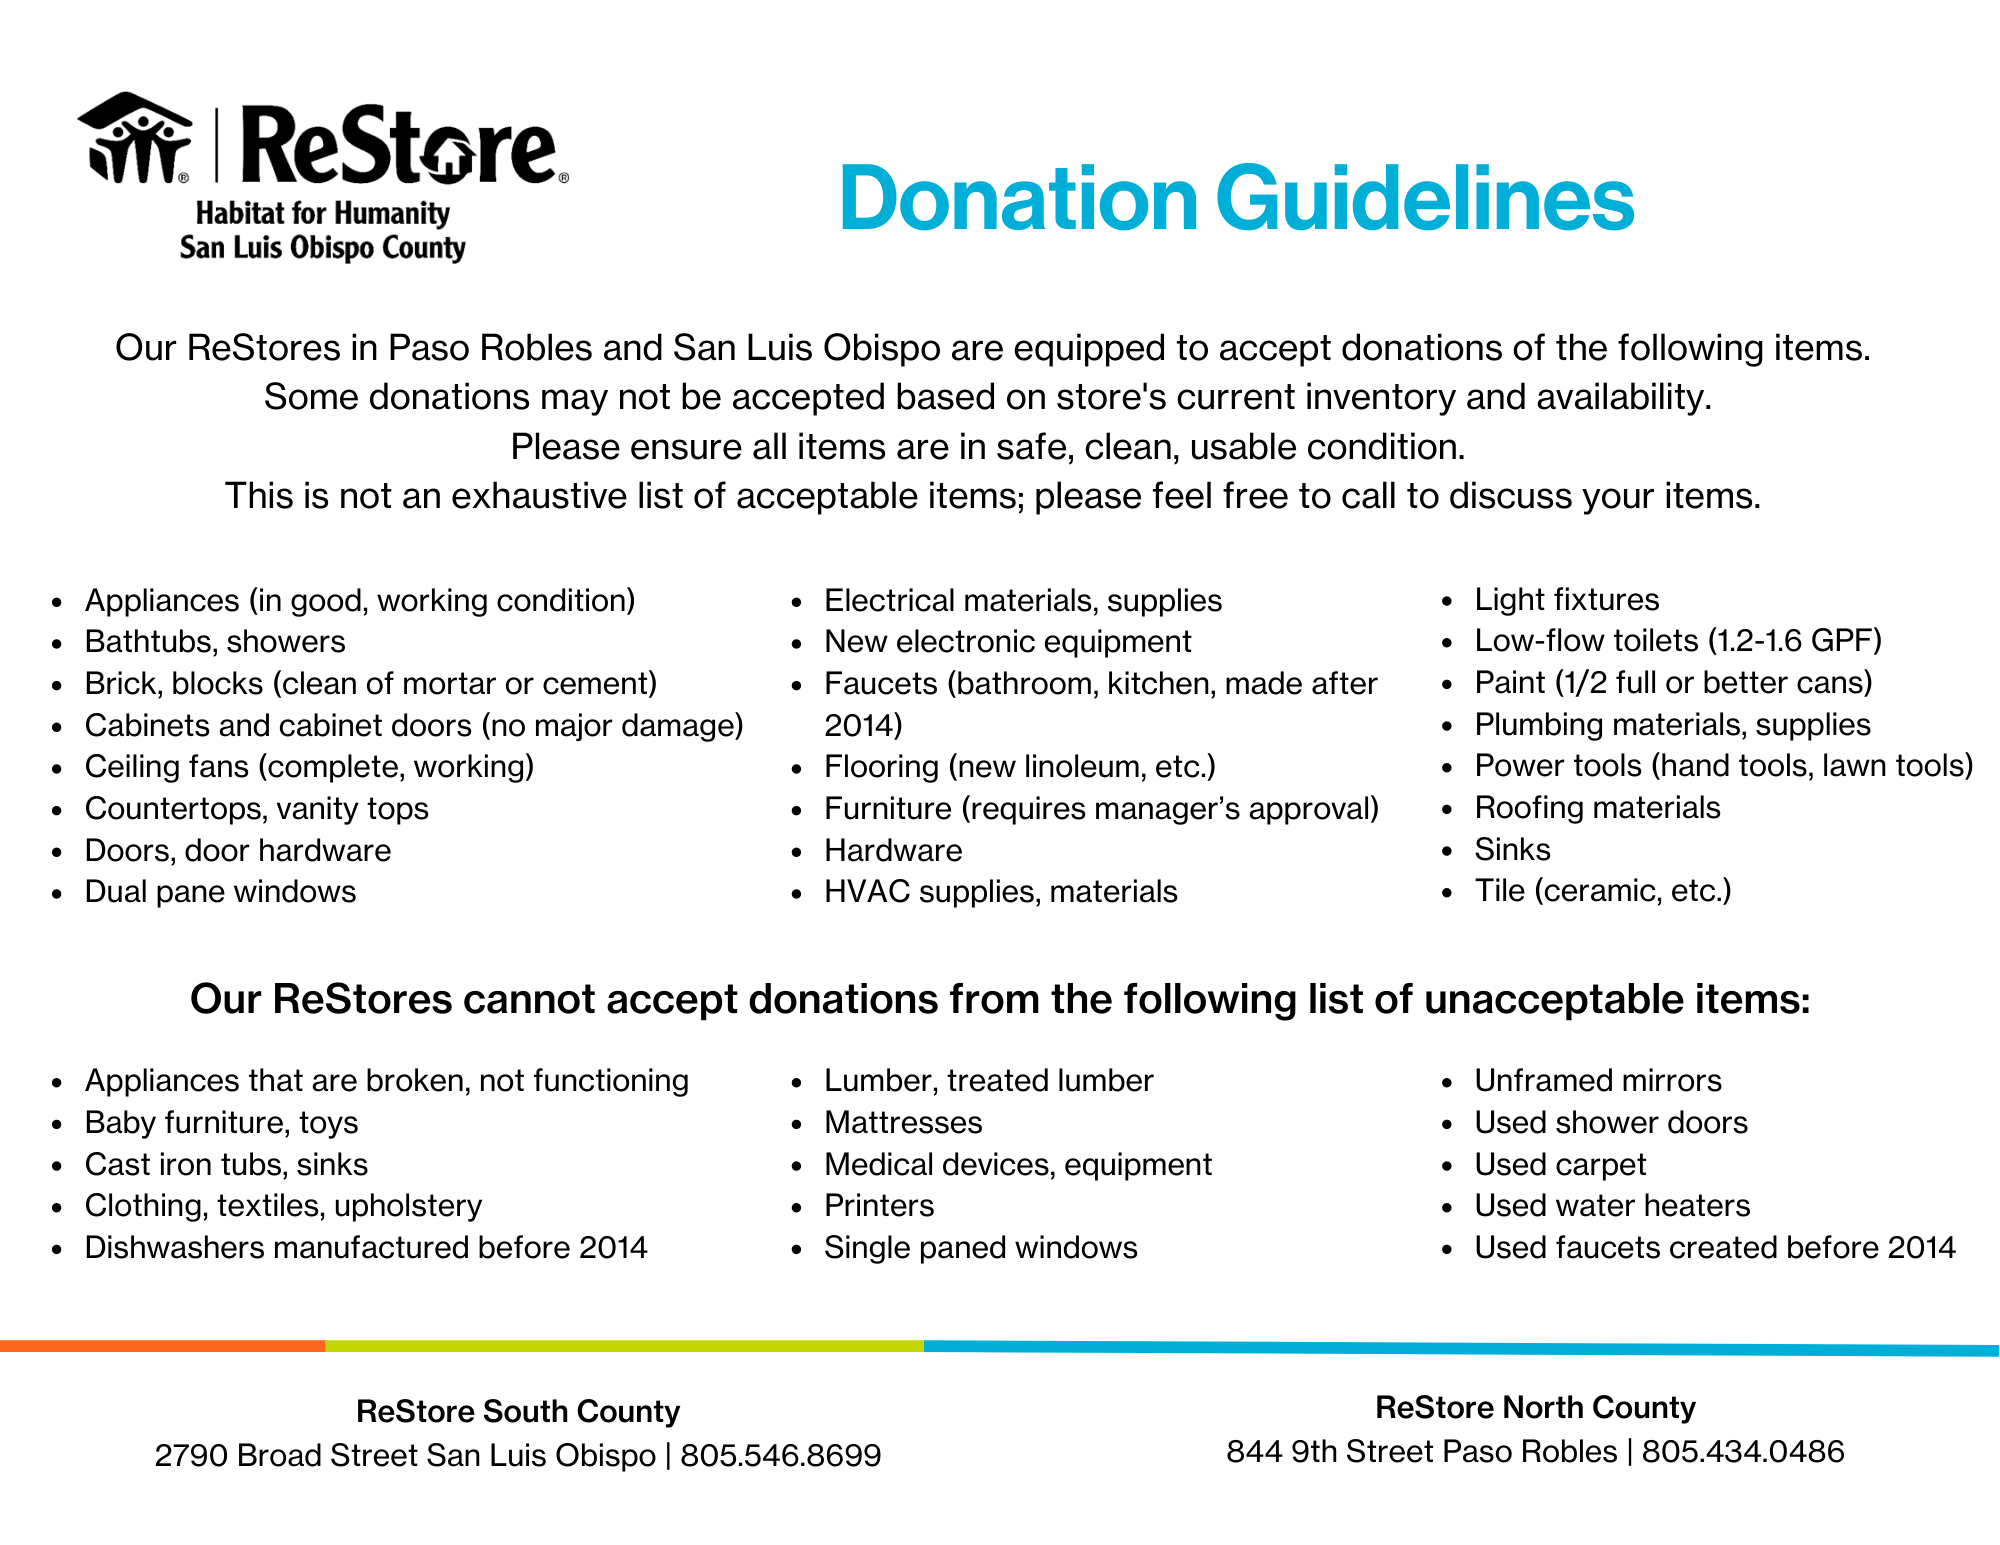
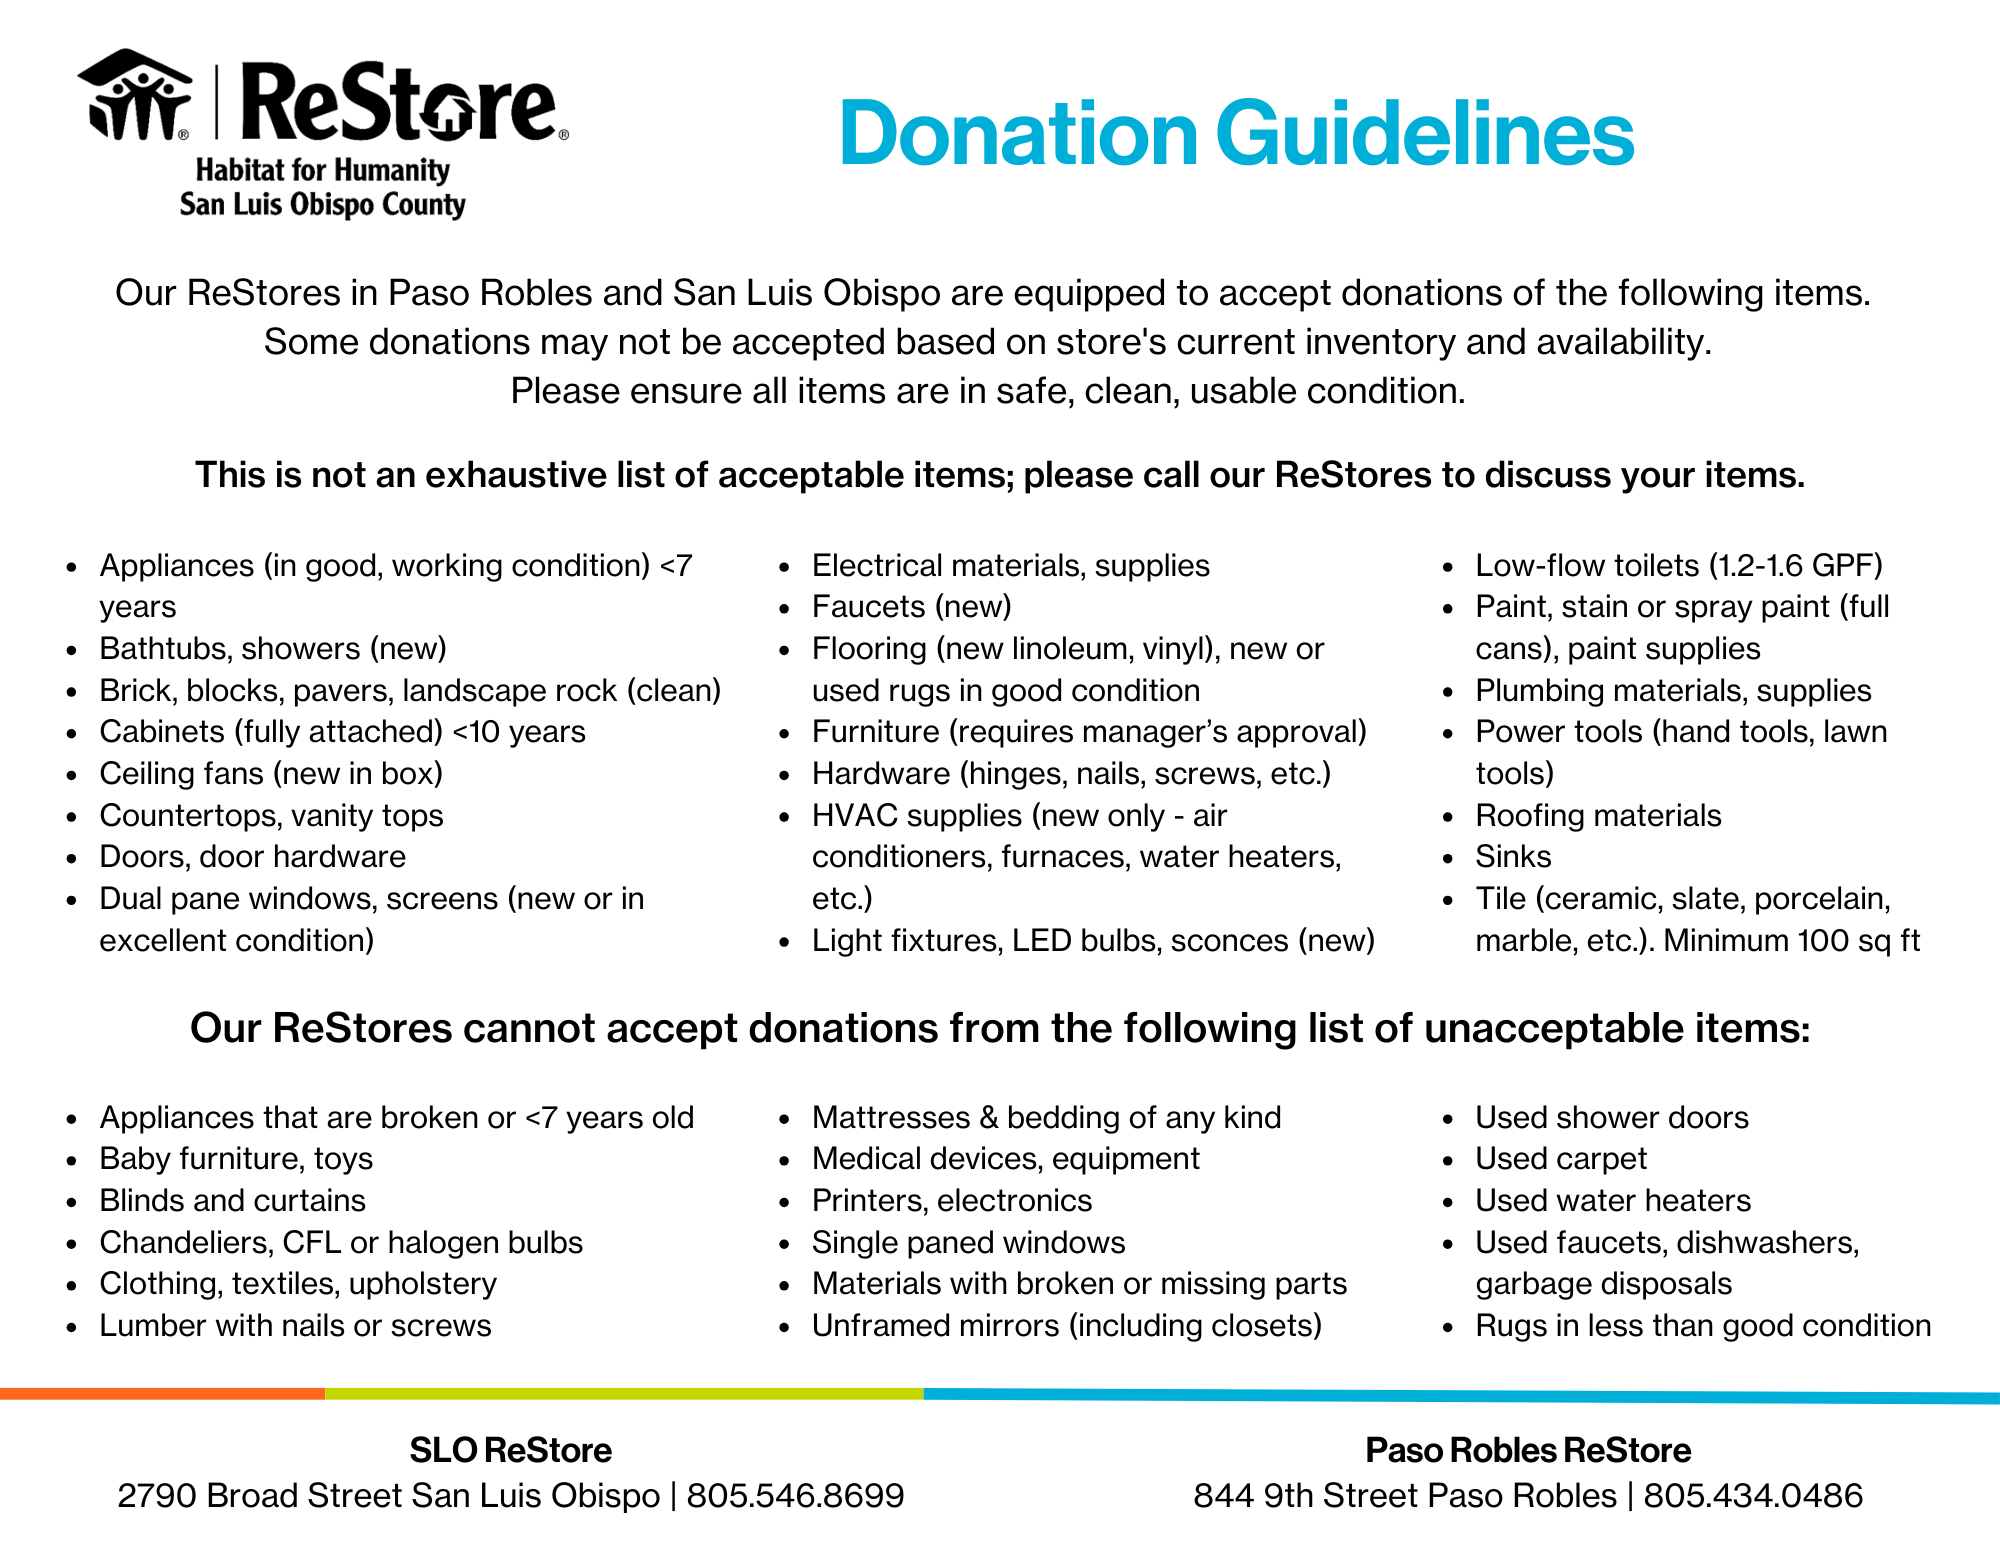
Fix: Minor bugs in donor flow

Changed region(s): [[0.0, 0.0311, 1.0, 0.9942], [0.403, 0.0621, 0.837, 0.1553]]

diff --git a/frontend/src/app/Donor/History/page.tsx b/frontend/src/app/Donor/History/page.tsx
@@ -35,33 +35,17 @@ function DonationHistory(): React.ReactNode {
   const [page, setPage] = React.useState(0);
   const [rowsPerPage, setRowsPerPage] = React.useState(8);
   const [items, setItems] = useState<Item[]>([]);
-  const [donors, setDonors] = useState<User[]>([]);
 
   const router = useRouter();
-
-  const storedDonorID = useSelector(
-    (state: RootState) => state.donation.donorID,
-  );
-
-  const dispatch = useDispatch();
-
+  
   useEffect(() => {
-    dispatch(updateDonorID(userId));
+    if (userId) {
+      getItemsByDonorID(userId).then((res) => setItems(res));
+    }  
   }, [userId]);
-
-  useEffect(() => {
-    getItemsByDonorID(storedDonorID).then((res) => setItems(res));
-    getUserByID(storedDonorID).then((res) => setDonors([res]));
-  }, []);
 
   const handleChangePage = (event: unknown, newPage: number) => {
     setPage(newPage);
-  };
-
-  const getDonorName = (id: string) => {
-    console.log(id);
-    const donor = donors.find((d) => d.id === id);
-    return `${donor?.firstName} ${donor?.lastName}`;
   };
 
   const convertTime = (time: Date | undefined) =>

diff --git a/frontend/src/components/donor/DonorScheduleDropoffPickupPage/DonorSchedulePickUp.tsx b/frontend/src/components/donor/DonorScheduleDropoffPickupPage/DonorSchedulePickUp.tsx
@@ -191,7 +191,7 @@ function DonatorSchedulePickUp(): React.ReactNode {
             staff will choose from your availability.
           </p>
           <div id="donatorPickupEvents">
-            {times.map((availEvent) => {
+            {times.map((availEvent, index) => {
               const startTime = moment
                 .utc(availEvent.start)
                 .local()
@@ -205,6 +205,7 @@ function DonatorSchedulePickUp(): React.ReactNode {
               return (
                 <div className="donatorPickUpTime">
                   <Checkbox
+                    key={index}
                     icon={<RadioButtonUncheckedIcon />}
                     checkedIcon={<CheckCircleIcon />}
                     onChange={(e) =>

diff --git a/frontend/src/app/Donor/Donate/ItemInfo/page.tsx b/frontend/src/app/Donor/Donate/ItemInfo/page.tsx
@@ -107,7 +107,7 @@ function Donation(): React.ReactNode {
   );
   const storedPhotos = useSelector((state: RootState) => state.donation.photos);
   const [itemDescription, setItemDescription] = useState(storedDesc);
-  const [itemDimensions, setItemDimensions] = useState(storedDims);
+  const [itemDimensions, setItemDimensions] = useState(storedDims ?? "");
   const [photos, setPhotos] = useState(storedPhotos);
   const [descError, setDescError] = useState("");
   const [dimError, setDimError] = useState("");
